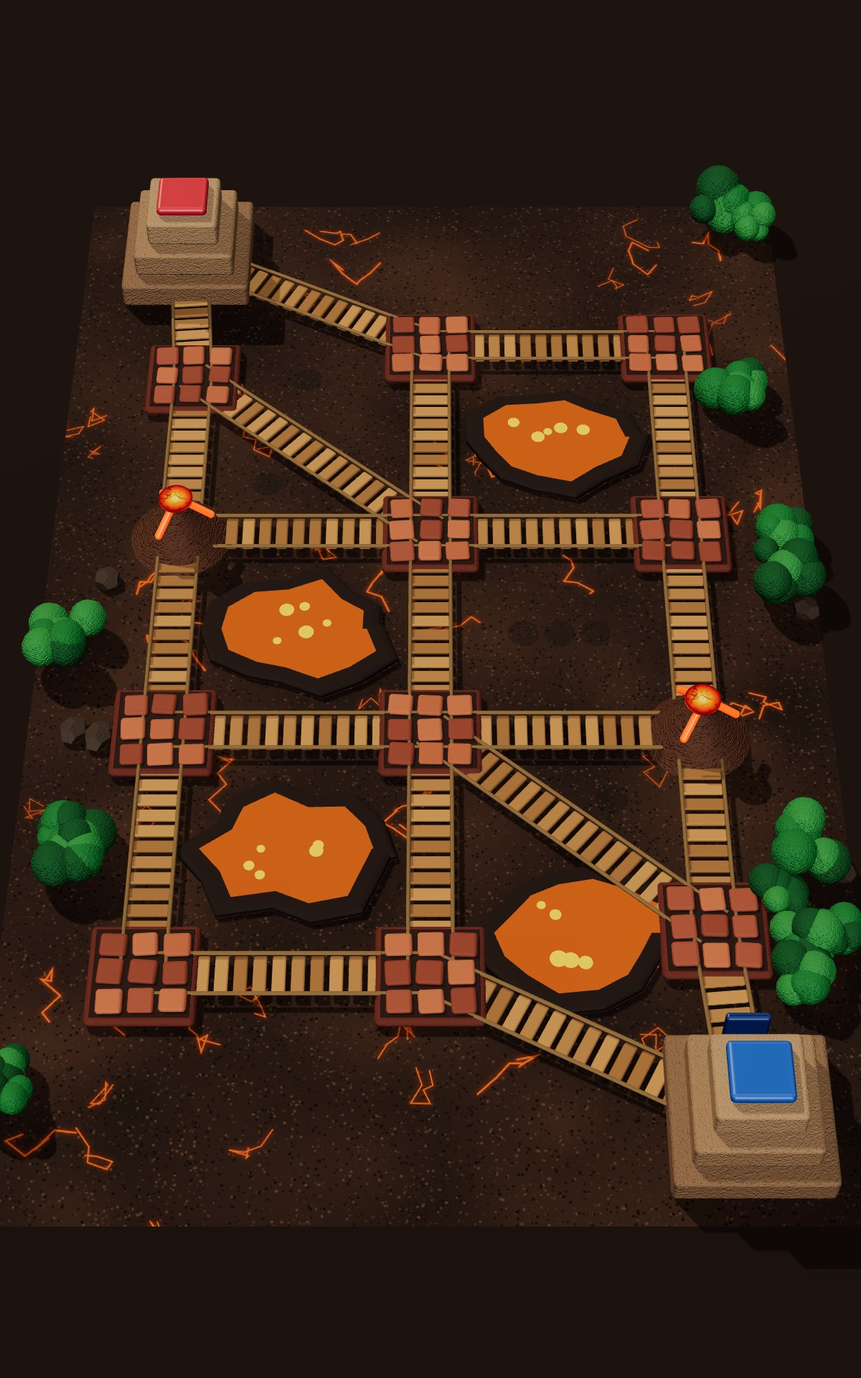
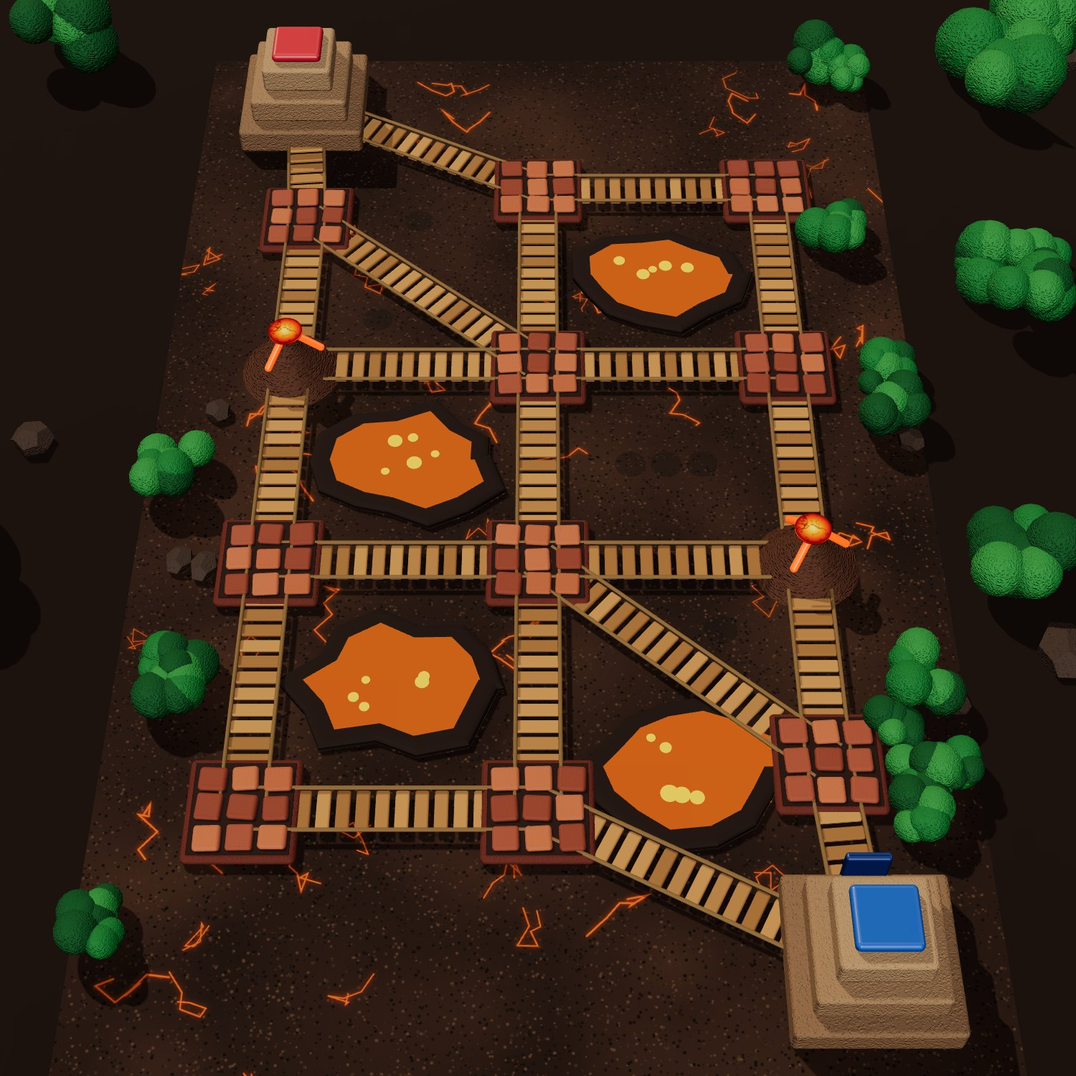
Square board renders with decorated surroundings; real screen height on iPhone (in progress)
Claude-Session: https://claude.ai/code/session_01JcXjzGuhMjiv5hGBxFbb7Y

diff --git a/js/layout.js b/js/layout.js
@@ -1,2 +1,2 @@
 // Generated by tools/render/render.cjs — screen positions of nodes on the angled board renders.
-export const LAYOUT = {"fort":{"r":{"nodes":{"HB":[500,210.51,0.91,0.62],"L0":[207.14,291.84,0.94,0.66],"R0":[792.86,291.84,0.94,0.66],"C1":[500,421.81,0.98,0.71],"L1":[158.5,487.26,1,0.74],"R1":[841.5,487.26,1,0.74],"L2":[169.23,692.21,1.07,0.84],"C2":[500,692.21,1.07,0.84],"R2":[830.77,692.21,1.07,0.84],"L3":[113.11,924.4,1.14,0.95],"R3":[886.89,924.4,1.14,0.95],"C3":[500,1012.13,1.16,1],"L4":[120.06,1211.62,1.23,1.11],"R4":[879.94,1211.62,1.23,1.11],"HR":[500,1394.82,1.27,1.2]},"medals":[[[478.35,311.71,0.94],[521.65,311.71,0.94]],[[315.91,480.01,0.99],[361.56,480.01,0.99]],[[638.44,480.01,0.99],[684.09,480.01,0.99]],[[251.01,633.81,1.04],[298.8,633.81,1.04]],[[701.2,633.81,1.04],[748.99,633.81,1.04]],[[240.51,778.63,1.08],[290.32,778.63,1.08]],[[709.68,778.63,1.08],[759.49,778.63,1.08]],[[288.85,962.48,1.14],[341.21,962.48,1.14]],[[658.79,962.48,1.14],[711.15,962.48,1.14]],[[472.09,1211.3,1.21],[527.91,1211.3,1.21]]]},"b":{"nodes":{"HB":[500,1394.82,1.27,1.2],"L0":[879.94,1211.62,1.23,1.11],"R0":[120.06,1211.62,1.23,1.11],"C1":[500,1012.13,1.16,1],"L1":[886.89,924.4,1.14,0.95],"R1":[113.11,924.4,1.14,0.95],"L2":[830.77,692.21,1.07,0.84],"C2":[500,692.21,1.07,0.84],"R2":[169.23,692.21,1.07,0.84],"L3":[841.5,487.26,1,0.74],"R3":[158.5,487.26,1,0.74],"C3":[500,421.81,0.98,0.71],"L4":[792.86,291.84,0.94,0.66],"R4":[207.14,291.84,0.94,0.66],"HR":[500,210.51,0.91,0.62]},"medals":[[[472.09,1211.3,1.21],[527.91,1211.3,1.21]],[[658.79,962.48,1.14],[711.15,962.48,1.14]],[[288.85,962.48,1.14],[341.21,962.48,1.14]],[[709.68,778.63,1.08],[759.49,778.63,1.08]],[[240.51,778.63,1.08],[290.32,778.63,1.08]],[[701.2,633.81,1.04],[748.99,633.81,1.04]],[[251.01,633.81,1.04],[298.8,633.81,1.04]],[[638.44,480.01,0.99],[684.09,480.01,0.99]],[[315.91,480.01,0.99],[361.56,480.01,0.99]],[[478.35,311.71,0.94],[521.65,311.71,0.94]]]}},"clouds":{"r":{"nodes":{"HB":[500,217.96,0.89,0.6],"L1":[191.1,349.61,0.94,0.66],"S1":[500,417.29,0.96,0.69],"R1":[808.9,349.61,0.94,0.66],"L2":[126.06,695.18,1.04,0.82],"M1":[333.8,695.18,1.04,0.82],"S2":[500,695.18,1.04,0.82],"M2":[666.2,695.18,1.04,0.82],"R2":[873.94,695.18,1.04,0.82],"L3":[115,1125.88,1.17,1.03],"S3":[500,1025.58,1.14,0.98],"R3":[885,1125.88,1.17,1.03],"HR":[500,1387.87,1.23,1.16]},"medals":[[[398.52,334.06,0.92]],[[601.48,334.06,0.92]],[[356.76,544.39,0.98],[402.04,544.39,0.98]],[[597.96,544.39,0.98],[643.24,544.39,0.98]],[[217.74,584.33,1]],[[782.26,584.33,1]],[[196.45,839.64,1.07]],[[803.55,839.64,1.07]],[[342.09,886.98,1.09],[392.02,886.98,1.09]],[[607.98,886.98,1.09],[657.91,886.98,1.09]],[[371.09,1181.53,1.17]],[[628.91,1181.53,1.17]]]},"b":{"nodes":{"HB":[500,1387.87,1.23,1.16],"L1":[885,1125.88,1.17,1.03],"S1":[500,1025.58,1.14,0.98],"R1":[115,1125.88,1.17,1.03],"L2":[873.94,695.18,1.04,0.82],"M1":[666.2,695.18,1.04,0.82],"S2":[500,695.18,1.04,0.82],"M2":[333.8,695.18,1.04,0.82],"R2":[126.06,695.18,1.04,0.82],"L3":[808.9,349.61,0.94,0.66],"S3":[500,417.29,0.96,0.69],"R3":[191.1,349.61,0.94,0.66],"HR":[500,217.96,0.89,0.6]},"medals":[[[628.91,1181.53,1.17]],[[371.09,1181.53,1.17]],[[607.98,886.98,1.09],[657.91,886.98,1.09]],[[342.09,886.98,1.09],[392.02,886.98,1.09]],[[803.55,839.64,1.07]],[[196.45,839.64,1.07]],[[782.26,584.33,1]],[[217.74,584.33,1]],[[597.96,544.39,0.98],[643.24,544.39,0.98]],[[356.76,544.39,0.98],[402.04,544.39,0.98]],[[601.48,334.06,0.92]],[[398.52,334.06,0.92]]]}},"lava":{"r":{"nodes":{"HB":[221.29,305.5,0.8,0.56],"a":[500,397.15,0.83,0.59],"b":[772.91,397.15,0.83,0.59],"c":[224.01,433.2,0.84,0.61],"d":[208.69,612.8,0.88,0.68],"e":[500,612.8,0.88,0.68],"f":[791.31,612.8,0.88,0.68],"g":[188.95,844.14,0.94,0.77],"h":[500,844.14,0.94,0.77],"i":[811.05,844.14,0.94,0.77],"j":[164.82,1126.95,1.02,0.9],"k":[500,1126.95,1.02,0.9],"l":[830.65,1073.89,1,0.87],"HR":[868.31,1304.34,1.05,0.97]},"medals":[[[358.65,441.26,0.83]],[[310.29,561.65,0.86]],[[620.66,512.44,0.85],[659.75,512.44,0.85]],[[308.66,735.21,0.91],[350.37,735.21,0.91],[392.09,735.21,0.91]],[[607.91,735.21,0.91],[649.63,735.21,0.91],[691.34,735.21,0.91]],[[710.36,927.65,0.96]],[[317.23,990.09,0.97],[361.95,990.09,0.97]],[[669.53,1087.77,1]]]},"b":{"nodes":{"HB":[868.31,1304.34,1.05,0.97],"a":[500,1126.95,1.02,0.9],"b":[164.82,1126.95,1.02,0.9],"c":[830.65,1073.89,1,0.87],"d":[811.05,844.14,0.94,0.77],"e":[500,844.14,0.94,0.77],"f":[188.95,844.14,0.94,0.77],"g":[791.31,612.8,0.88,0.68],"h":[500,612.8,0.88,0.68],"i":[208.69,612.8,0.88,0.68],"j":[772.91,397.15,0.83,0.59],"k":[500,397.15,0.83,0.59],"l":[224.01,433.2,0.84,0.61],"HR":[221.29,305.5,0.8,0.56]},"medals":[[[669.53,1087.77,1]],[[710.36,927.65,0.96]],[[317.23,990.09,0.97],[361.95,990.09,0.97]],[[607.91,735.21,0.91],[649.63,735.21,0.91],[691.34,735.21,0.91]],[[308.66,735.21,0.91],[350.37,735.21,0.91],[392.09,735.21,0.91]],[[310.29,561.65,0.86]],[[620.66,512.44,0.85],[659.75,512.44,0.85]],[[358.65,441.26,0.83]]]}},"attic":{"r":{"nodes":{"HB":[500,189.85,0.92,0.62],"a":[248.44,298.35,0.97,0.67],"b":[751.56,298.35,0.97,0.67],"c":[500,446.6,1.01,0.74],"d":[108.27,684.78,1.09,0.85],"e":[500,684.78,1.09,0.85],"f":[891.73,684.78,1.09,0.85],"g":[500,960.65,1.17,0.99],"h":[176.79,1181.27,1.24,1.11],"i":[823.21,1181.27,1.24,1.11],"HR":[500,1414.86,1.3,1.23]},"medals":[[[477.85,315.3,0.96],[522.15,315.3,0.96]],[[316.56,533.56,1.03],[363.97,533.56,1.03]],[[636.03,533.56,1.03],[683.44,533.56,1.03]],[[297.59,878.58,1.14],[349.9,878.58,1.14]],[[650.1,878.58,1.14],[702.41,878.58,1.14]],[[471.66,1186.76,1.23],[528.34,1186.76,1.23]]]},"b":{"nodes":{"HB":[500,1414.86,1.3,1.23],"a":[823.21,1181.27,1.24,1.11],"b":[176.79,1181.27,1.24,1.11],"c":[500,960.65,1.17,0.99],"d":[891.73,684.78,1.09,0.85],"e":[500,684.78,1.09,0.85],"f":[108.27,684.78,1.09,0.85],"g":[500,446.6,1.01,0.74],"h":[751.56,298.35,0.97,0.67],"i":[248.44,298.35,0.97,0.67],"HR":[500,189.85,0.92,0.62]},"medals":[[[471.66,1186.76,1.23],[528.34,1186.76,1.23]],[[650.1,878.58,1.14],[702.41,878.58,1.14]],[[297.59,878.58,1.14],[349.9,878.58,1.14]],[[636.03,533.56,1.03],[683.44,533.56,1.03]],[[316.56,533.56,1.03],[363.97,533.56,1.03]],[[477.85,315.3,0.96],[522.15,315.3,0.96]]]}},"bay":{"r":{"nodes":{"HB1":[160.87,216.07,0.92,0.62],"HB2":[839.13,216.07,0.92,0.62],"a":[156.76,393.79,0.98,0.7],"b":[500,331.66,0.96,0.68],"c":[843.24,393.79,0.98,0.7],"d":[323.15,587.92,1.04,0.79],"e":[685.52,556.53,1.03,0.78],"f":[110.41,825.22,1.11,0.91],"g":[500,843.45,1.12,0.92],"h":[887.65,807.17,1.11,0.9],"i":[259.32,1119.33,1.2,1.06],"j":[740.68,1119.33,1.2,1.06],"HR":[500,1389.67,1.27,1.2]},"medals":[[[284.46,386.06,0.97]],[[717.49,379.13,0.97]],[[503.35,501.04,1]],[[246.62,665.17,1.05],[295.09,665.17,1.05]],[[503.52,670.65,1.06]],[[802.36,590.25,1.03]],[[690.33,743.47,1.08]],[[291.74,936.46,1.14]],[[707.91,930.11,1.13]],[[472.61,1117.29,1.19],[527.39,1117.29,1.19]]]},"b":{"nodes":{"HB1":[873.16,1286.48,1.01,0.93],"HB2":[126.84,1286.48,1.01,0.93],"a":[833.18,1024.65,0.95,0.82],"b":[500,1099.73,0.97,0.85],"c":[166.82,1024.65,0.95,0.82],"d":[653.31,823.13,0.9,0.73],"e":[336.35,852.74,0.91,0.75],"f":[798.69,628.57,0.85,0.66],"g":[500,615.47,0.85,0.65],"h":[200.16,641.77,0.86,0.66],"i":[661.4,442.04,0.81,0.59],"j":[338.6,442.04,0.81,0.59],"HR":[500,323.6,0.77,0.54]},"medals":[[[711.98,1058.6,0.95]],[[285.18,1066.87,0.95]],[[496.93,930.79,0.92]],[[671.71,775.36,0.88],[712.32,775.36,0.88]],[[497.06,770.64,0.88]],[[236.16,842.82,0.9]],[[346.87,710.36,0.87]],[[652.57,570.31,0.83]],[[347.24,574.51,0.83]],[[481.49,460.05,0.8],[518.51,460.05,0.8]]]}},"trenches":{"r":{"nodes":{"HB":[500,237.14,0.88,0.6],"a":[201.15,309.88,0.91,0.63],"b":[798.85,309.88,0.91,0.63],"c":[181.04,519.3,0.97,0.72],"s1":[500,455.65,0.95,0.69],"d":[818.96,519.3,0.97,0.72],"e":[326.65,701.86,1.02,0.8],"f":[673.35,701.86,1.02,0.8],"g":[143.93,905.65,1.08,0.9],"s2":[500,988.32,1.1,0.94],"h":[856.07,905.65,1.08,0.9],"i":[115,1206.83,1.17,1.05],"j":[885,1206.83,1.17,1.05],"HR":[500,1369.46,1.2,1.13]},"medals":[[[479.2,335.23,0.9],[520.8,335.23,0.9]],[[294.48,438.36,0.93]],[[705.52,438.36,0.93]],[[338.07,567.99,0.97]],[[500,627.87,0.99]],[[661.93,567.99,0.97]],[[219.57,713.76,1.01]],[[780.43,713.76,1.01]],[[500,804.06,1.04]],[[323.43,872.71,1.06]],[[676.57,872.71,1.06]],[[256.29,1040.33,1.11]],[[743.71,1040.33,1.11]],[[473.49,1196.19,1.15],[526.51,1196.19,1.15]]]},"b":{"nodes":{"HB":[500,1369.46,1.2,1.13],"a":[885,1206.83,1.17,1.05],"b":[115,1206.83,1.17,1.05],"c":[856.07,905.65,1.08,0.9],"s1":[500,988.32,1.1,0.94],"d":[143.93,905.65,1.08,0.9],"e":[673.35,701.86,1.02,0.8],"f":[326.65,701.86,1.02,0.8],"g":[818.96,519.3,0.97,0.72],"s2":[500,455.65,0.95,0.69],"h":[181.04,519.3,0.97,0.72],"i":[798.85,309.88,0.91,0.63],"j":[201.15,309.88,0.91,0.63],"HR":[500,237.14,0.88,0.6]},"medals":[[[473.49,1196.19,1.15],[526.51,1196.19,1.15]],[[743.71,1040.33,1.11]],[[256.29,1040.33,1.11]],[[676.57,872.71,1.06]],[[500,804.06,1.04]],[[323.43,872.71,1.06]],[[780.43,713.76,1.01]],[[219.57,713.76,1.01]],[[500,627.87,0.99]],[[661.93,567.99,0.97]],[[338.07,567.99,0.97]],[[705.52,438.36,0.93]],[[294.48,438.36,0.93]],[[479.2,335.23,0.9],[520.8,335.23,0.9]]]}},"pool":{"r":{"nodes":{"HB1":[221.29,305.5,0.8,0.56],"HB2":[778.71,305.5,0.8,0.56],"a":[500,379.42,0.82,0.59],"b":[217.65,507.81,0.86,0.64],"d":[782.35,507.81,0.86,0.64],"c":[500,559.48,0.87,0.66],"e":[262.96,724.68,0.91,0.72],"m":[500,724.68,0.91,0.72],"f":[737.04,724.68,0.91,0.72],"g":[500,906.96,0.96,0.8],"h":[178.04,971.97,0.98,0.83],"i":[821.96,971.97,0.98,0.83],"j":[500,1154.02,1.02,0.91],"HR1":[131.69,1304.34,1.05,0.97],"HR2":[868.31,1304.34,1.05,0.97]},"medals":[[[339.45,442.77,0.83],[377.72,442.77,0.83]],[[622.28,442.77,0.83],[660.55,442.77,0.83]],[[349.67,637.14,0.88],[390.23,637.14,0.88]],[[609.77,637.14,0.88],[650.33,637.14,0.88]],[[340.85,839.03,0.93],[383.78,839.03,0.93]],[[616.22,839.03,0.93],[659.15,839.03,0.93]],[[307.64,1085.59,1],[353.49,1085.59,1]],[[646.51,1085.59,1],[692.36,1085.59,1]]]},"b":{"nodes":{"HB1":[868.31,1304.34,1.05,0.97],"HB2":[131.69,1304.34,1.05,0.97],"a":[500,1154.02,1.02,0.91],"b":[821.96,971.97,0.98,0.83],"d":[178.04,971.97,0.98,0.83],"c":[500,906.96,0.96,0.8],"e":[737.04,724.68,0.91,0.72],"m":[500,724.68,0.91,0.72],"f":[262.96,724.68,0.91,0.72],"g":[500,559.48,0.87,0.66],"h":[782.35,507.81,0.86,0.64],"i":[217.65,507.81,0.86,0.64],"j":[500,379.42,0.82,0.59],"HR1":[778.71,305.5,0.8,0.56],"HR2":[221.29,305.5,0.8,0.56]},"medals":[[[646.51,1085.59,1],[692.36,1085.59,1]],[[307.64,1085.59,1],[353.49,1085.59,1]],[[616.22,839.03,0.93],[659.15,839.03,0.93]],[[340.85,839.03,0.93],[383.78,839.03,0.93]],[[609.77,637.14,0.88],[650.33,637.14,0.88]],[[349.67,637.14,0.88],[390.23,637.14,0.88]],[[622.28,442.77,0.83],[660.55,442.77,0.83]],[[339.45,442.77,0.83],[377.72,442.77,0.83]]]}},"rocket":{"r":{"nodes":{"HB":[227.29,292.31,0.83,0.57],"a":[500,297.28,0.84,0.58],"b":[212.47,430.71,0.87,0.63],"d":[784.74,399.39,0.86,0.62],"c":[500,469.12,0.88,0.65],"e":[187.88,604.01,0.92,0.7],"f":[810.84,590.02,0.91,0.7],"x1":[300.64,720.21,0.95,0.75],"x2":[500,720.21,0.95,0.75],"x3":[699.36,720.21,0.95,0.75],"g":[164.35,860.78,0.99,0.81],"h":[834.17,844.61,0.98,0.81],"i":[500,1013.05,1.03,0.88],"j":[151.83,1112.5,1.06,0.93],"k":[844.1,1066.66,1.04,0.91],"l":[500,1276.81,1.1,1.01],"HR":[863.01,1316.74,1.1,1.02]},"medals":[[[340.22,378.8,0.85],[379.32,378.8,0.85]],[[594.07,398.65,0.86]],[[696.79,495.78,0.88]],[[319.33,595.75,0.91],[361.1,595.75,0.91]],[[605.09,632.87,0.92],[647.3,632.87,0.92]],[[219.53,736.19,0.95]],[[779.68,726.2,0.94]],[[344.01,835.31,0.97],[388.72,835.31,0.97]],[[650.44,877.88,0.98],[695.67,877.88,0.98]],[[272.95,1002.8,1.02]],[[384.11,1140.85,1.05]],[[650.76,1171.41,1.06],[699.6,1171.41,1.06]]]},"b":{"nodes":{"HB":[863.01,1316.74,1.1,1.02],"a":[500,1276.81,1.1,1.01],"b":[844.1,1066.66,1.04,0.91],"d":[151.83,1112.5,1.06,0.93],"c":[500,1013.05,1.03,0.88],"e":[834.17,844.61,0.98,0.81],"f":[164.35,860.78,0.99,0.81],"x1":[699.36,720.21,0.95,0.75],"x2":[500,720.21,0.95,0.75],"x3":[300.64,720.21,0.95,0.75],"g":[810.84,590.02,0.91,0.7],"h":[187.88,604.01,0.92,0.7],"i":[500,469.12,0.88,0.65],"j":[784.74,399.39,0.86,0.62],"k":[212.47,430.71,0.87,0.63],"l":[500,297.28,0.84,0.58],"HR":[227.29,292.31,0.83,0.57]},"medals":[[[650.76,1171.41,1.06],[699.6,1171.41,1.06]],[[384.11,1140.85,1.05]],[[272.95,1002.8,1.02]],[[650.44,877.88,0.98],[695.67,877.88,0.98]],[[344.01,835.31,0.97],[388.72,835.31,0.97]],[[779.68,726.2,0.94]],[[219.53,736.19,0.95]],[[605.09,632.87,0.92],[647.3,632.87,0.92]],[[319.33,595.75,0.91],[361.1,595.75,0.91]],[[696.79,495.78,0.88]],[[594.07,398.65,0.86]],[[340.22,378.8,0.85],[379.32,378.8,0.85]]]}}};
+export const LAYOUT = {"fort":{"r":{"nodes":{"HB":[800,165.93,0.97,0.65],"L0":[487.57,250.9,1.01,0.69],"R0":[1112.43,250.9,1.01,0.69],"C1":[800,388.1,1.05,0.75],"L1":[434.14,457.49,1.08,0.79],"R1":[1165.86,457.49,1.08,0.79],"L2":[444.05,676.04,1.15,0.9],"C2":[800,676.04,1.15,0.9],"R2":[1155.95,676.04,1.15,0.9],"L3":[381.55,926.01,1.23,1.03],"R3":[1218.45,926.01,1.23,1.03],"C3":[800,1021.13,1.26,1.08],"L4":[386.46,1238.77,1.33,1.21],"R4":[1213.54,1238.77,1.33,1.21],"HR":[800,1439.82,1.38,1.32]},"medals":[[[776.9,272.24,1],[823.1,272.24,1]],[[602.95,450.11,1.06],[651.81,450.11,1.06]],[[948.19,450.11,1.06],[997.05,450.11,1.06]],[[532.59,613.78,1.12],[583.92,613.78,1.12]],[[1016.08,613.78,1.12],[1067.41,613.78,1.12]],[[520.45,768.89,1.17],[574.1,768.89,1.17]],[[1025.9,768.89,1.17],[1079.55,768.89,1.17]],[[571.61,967.2,1.23],[628.25,967.2,1.23]],[[971.75,967.2,1.23],[1028.39,967.2,1.23]],[[769.65,1238.13,1.32],[830.35,1238.13,1.32]]]},"b":{"nodes":{"HB":[800,1439.82,1.38,1.32],"L0":[1213.54,1238.77,1.33,1.21],"R0":[386.46,1238.77,1.33,1.21],"C1":[800,1021.13,1.26,1.08],"L1":[1218.45,926.01,1.23,1.03],"R1":[381.55,926.01,1.23,1.03],"L2":[1155.95,676.04,1.15,0.9],"C2":[800,676.04,1.15,0.9],"R2":[444.05,676.04,1.15,0.9],"L3":[1165.86,457.49,1.08,0.79],"R3":[434.14,457.49,1.08,0.79],"C3":[800,388.1,1.05,0.75],"L4":[1112.43,250.9,1.01,0.69],"R4":[487.57,250.9,1.01,0.69],"HR":[800,165.93,0.97,0.65]},"medals":[[[769.65,1238.13,1.32],[830.35,1238.13,1.32]],[[971.75,967.2,1.23],[1028.39,967.2,1.23]],[[571.61,967.2,1.23],[628.25,967.2,1.23]],[[1025.9,768.89,1.17],[1079.55,768.89,1.17]],[[520.45,768.89,1.17],[574.1,768.89,1.17]],[[1016.08,613.78,1.12],[1067.41,613.78,1.12]],[[532.59,613.78,1.12],[583.92,613.78,1.12]],[[948.19,450.11,1.06],[997.05,450.11,1.06]],[[602.95,450.11,1.06],[651.81,450.11,1.06]],[[776.9,272.24,1],[823.1,272.24,1]]]}},"clouds":{"r":{"nodes":{"HB":[800,164.62,0.96,0.64],"L1":[465.73,303.96,1.01,0.71],"S1":[800,376.27,1.04,0.74],"R1":[1134.27,303.96,1.01,0.71],"L2":[391.67,675.85,1.13,0.89],"M1":[618.52,675.85,1.13,0.89],"S2":[800,675.85,1.13,0.89],"M2":[981.48,675.85,1.13,0.89],"R2":[1208.33,675.85,1.13,0.89],"L3":[374.78,1148.91,1.29,1.14],"S3":[800,1037.78,1.25,1.08],"R3":[1225.22,1148.91,1.29,1.14],"HR":[800,1441.41,1.37,1.31]},"medals":[[[690.31,287.86,1]],[[909.69,287.86,1]],[[644.33,513.08,1.07],[693.55,513.08,1.07]],[[906.45,513.08,1.07],[955.67,513.08,1.07]],[[492.94,556.11,1.08]],[[1107.06,556.11,1.08]],[[467.58,833.38,1.17]],[[1132.42,833.38,1.17]],[[626.86,885.2,1.19],[681.6,885.2,1.19]],[[918.4,885.2,1.19],[973.14,885.2,1.19]],[[657.55,1210.51,1.29]],[[942.45,1210.51,1.29]]]},"b":{"nodes":{"HB":[800,1441.41,1.37,1.31],"L1":[1225.22,1148.91,1.29,1.14],"S1":[800,1037.78,1.25,1.08],"R1":[374.78,1148.91,1.29,1.14],"L2":[1208.33,675.85,1.13,0.89],"M1":[981.48,675.85,1.13,0.89],"S2":[800,675.85,1.13,0.89],"M2":[618.52,675.85,1.13,0.89],"R2":[391.67,675.85,1.13,0.89],"L3":[1134.27,303.96,1.01,0.71],"S3":[800,376.27,1.04,0.74],"R3":[465.73,303.96,1.01,0.71],"HR":[800,164.62,0.96,0.64]},"medals":[[[942.45,1210.51,1.29]],[[657.55,1210.51,1.29]],[[918.4,885.2,1.19],[973.14,885.2,1.19]],[[626.86,885.2,1.19],[681.6,885.2,1.19]],[[1132.42,833.38,1.17]],[[467.58,833.38,1.17]],[[1107.06,556.11,1.08]],[[492.94,556.11,1.08]],[[906.45,513.08,1.07],[955.67,513.08,1.07]],[[644.33,513.08,1.07],[693.55,513.08,1.07]],[[909.69,287.86,1]],[[690.31,287.86,1]]]}},"lava":{"r":{"nodes":{"HB":[456.57,167.29,0.98,0.65],"a":[800,274.61,1.03,0.71],"b":[1139.33,274.61,1.03,0.71],"c":[455.9,317.84,1.04,0.73],"d":[431.75,536.78,1.12,0.84],"e":[800,536.78,1.12,0.84],"f":[1168.25,536.78,1.12,0.84],"g":[399.64,827.91,1.21,0.99],"h":[800,827.91,1.21,0.99],"i":[1200.36,827.91,1.21,0.99],"j":[358.75,1198.55,1.34,1.2],"k":[800,1198.55,1.34,1.2],"l":[1233.43,1127.74,1.31,1.16],"HR":[1290.45,1438.21,1.4,1.34]},"medals":[[[624.02,328.71,1.04]],[[561.64,474.72,1.08]],[[951.03,414.71,1.06],[999.96,414.71,1.06]],[[556.37,689.99,1.15],[609.48,689.99,1.15],[662.6,689.99,1.15]],[[937.4,689.99,1.15],[990.52,689.99,1.15],[1043.63,689.99,1.15]],[[1071.88,935.54,1.24]],[[562.61,1016.81,1.26],[620.69,1016.81,1.26]],[[1021.9,1145.56,1.31]]]},"b":{"nodes":{"HB":[1290.45,1438.21,1.4,1.34],"a":[800,1198.55,1.34,1.2],"b":[358.75,1198.55,1.34,1.2],"c":[1233.43,1127.74,1.31,1.16],"d":[1200.36,827.91,1.21,0.99],"e":[800,827.91,1.21,0.99],"f":[399.64,827.91,1.21,0.99],"g":[1168.25,536.78,1.12,0.84],"h":[800,536.78,1.12,0.84],"i":[431.75,536.78,1.12,0.84],"j":[1139.33,274.61,1.03,0.71],"k":[800,274.61,1.03,0.71],"l":[455.9,317.84,1.04,0.73],"HR":[456.57,167.29,0.98,0.65]},"medals":[[[1021.9,1145.56,1.31]],[[1071.88,935.54,1.24]],[[562.61,1016.81,1.26],[620.69,1016.81,1.26]],[[937.4,689.99,1.15],[990.52,689.99,1.15],[1043.63,689.99,1.15]],[[556.37,689.99,1.15],[609.48,689.99,1.15],[662.6,689.99,1.15]],[[561.64,474.72,1.08]],[[951.03,414.71,1.06],[999.96,414.71,1.06]],[[624.02,328.71,1.04]]]}},"attic":{"r":{"nodes":{"HB":[800,164.62,0.96,0.64],"a":[539.01,275.95,1,0.69],"b":[1060.99,275.95,1,0.69],"c":[800,428.92,1.05,0.76],"d":[391.67,675.85,1.13,0.89],"e":[800,675.85,1.13,0.89],"f":[1208.33,675.85,1.13,0.89],"g":[800,963.64,1.23,1.04],"h":[461.06,1195.18,1.3,1.17],"i":[1138.94,1195.18,1.3,1.17],"HR":[800,1441.41,1.37,1.31]},"medals":[[[777.02,293.64,1],[822.98,293.64,1]],[[609.22,519.06,1.07],[658.52,519.06,1.07]],[[941.48,519.06,1.07],[990.78,519.06,1.07]],[[588.61,877.83,1.19],[643.24,877.83,1.19]],[[956.76,877.83,1.19],[1011.39,877.83,1.19]],[[770.29,1200.81,1.29],[829.71,1200.81,1.29]]]},"b":{"nodes":{"HB":[800,1441.41,1.37,1.31],"a":[1138.94,1195.18,1.3,1.17],"b":[461.06,1195.18,1.3,1.17],"c":[800,963.64,1.23,1.04],"d":[1208.33,675.85,1.13,0.89],"e":[800,675.85,1.13,0.89],"f":[391.67,675.85,1.13,0.89],"g":[800,428.92,1.05,0.76],"h":[1060.99,275.95,1,0.69],"i":[539.01,275.95,1,0.69],"HR":[800,164.62,0.96,0.64]},"medals":[[[770.29,1200.81,1.29],[829.71,1200.81,1.29]],[[956.76,877.83,1.19],[1011.39,877.83,1.19]],[[588.61,877.83,1.19],[643.24,877.83,1.19]],[[941.48,519.06,1.07],[990.78,519.06,1.07]],[[609.22,519.06,1.07],[658.52,519.06,1.07]],[[777.02,293.64,1],[822.98,293.64,1]]]}},"bay":{"r":{"nodes":{"HB1":[437.07,167.77,0.98,0.65],"HB2":[1162.93,167.77,0.98,0.65],"a":[430.86,355.25,1.05,0.75],"b":[800,289.35,1.03,0.72],"c":[1169.14,355.25,1.05,0.75],"d":[608.93,562.47,1.12,0.85],"e":[1000.28,528.84,1.11,0.83],"f":[376.71,818.36,1.21,0.98],"g":[800,838.14,1.22,0.99],"h":[1221,798.8,1.2,0.97],"i":[536.66,1139.57,1.32,1.17],"j":[1063.34,1139.57,1.32,1.17],"HR":[800,1438.28,1.4,1.33]},"medals":[[[568.41,347.46,1.04]],[[1033.64,340.11,1.04]],[[803.6,469.83,1.08]],[[525.97,645.66,1.14],[578.39,645.66,1.14]],[[803.8,651.56,1.14]],[[1126.43,565.24,1.11]],[[1006.22,730.03,1.17]],[[573.32,939.28,1.24]],[[1026.26,932.37,1.23]],[[770.06,1137.1,1.3],[829.94,1137.1,1.3]]]},"b":{"nodes":{"HB1":[1318.72,1438.14,1.4,1.34],"HB2":[281.28,1438.14,1.4,1.34],"a":[1253.22,1070.39,1.29,1.13],"b":[800,1174.48,1.33,1.19],"c":[346.78,1070.39,1.29,1.13],"d":[1004.66,798.16,1.2,0.97],"e":[580.93,837.52,1.22,1],"f":[1191.69,544.78,1.12,0.84],"g":[800,528.04,1.11,0.83],"h":[406.33,561.69,1.12,0.85],"i":[1008.13,310.11,1.04,0.73],"j":[591.87,310.11,1.04,0.73],"HR":[800,166.82,0.98,0.65]},"medals":[[[1088.44,1116.64,1.3]],[[507.47,1128.08,1.3]],[[795.87,942.21,1.24]],[[1027.62,735.54,1.17],[1081.45,735.54,1.17]],[[796.11,729.35,1.17]],[[448.09,824.5,1.2]],[[598.2,650.83,1.14]],[[998.54,471.66,1.08]],[[601.13,476.98,1.08]],[[776.14,333.74,1.04],[823.86,333.74,1.04]]]}},"trenches":{"r":{"nodes":{"HB":[800,165.93,0.97,0.65],"a":[468.16,244.01,1.01,0.69],"b":[1131.84,244.01,1.01,0.69],"c":[443.18,473.32,1.08,0.8],"s1":[800,403.27,1.06,0.76],"d":[1156.82,473.32,1.08,0.8],"e":[604.8,676.04,1.15,0.9],"f":[995.2,676.04,1.15,0.9],"g":[396.09,905.52,1.22,1.02],"s2":[800,999.57,1.26,1.07],"h":[1203.91,905.52,1.22,1.02],"i":[358.45,1250.92,1.34,1.22],"j":[1241.55,1250.92,1.34,1.22],"HR":[800,1439.82,1.38,1.32]},"medals":[[[776.9,272.24,1],[823.1,272.24,1]],[[570.99,384.84,1.04]],[[1029.01,384.84,1.04]],[[618.74,527.56,1.09]],[[800,593.92,1.11]],[[981.26,527.56,1.09]],[[484.46,689.61,1.14]],[[1115.54,689.61,1.14]],[[800,790.85,1.17]],[[600.19,868.25,1.2]],[[999.81,868.25,1.2]],[[522.55,1058.84,1.26]],[[1077.45,1058.84,1.26]],[[769.65,1238.13,1.32],[830.35,1238.13,1.32]]]},"b":{"nodes":{"HB":[800,1439.82,1.38,1.32],"a":[1241.55,1250.92,1.34,1.22],"b":[358.45,1250.92,1.34,1.22],"c":[1203.91,905.52,1.22,1.02],"s1":[800,999.57,1.26,1.07],"d":[396.09,905.52,1.22,1.02],"e":[995.2,676.04,1.15,0.9],"f":[604.8,676.04,1.15,0.9],"g":[1156.82,473.32,1.08,0.8],"s2":[800,403.27,1.06,0.76],"h":[443.18,473.32,1.08,0.8],"i":[1131.84,244.01,1.01,0.69],"j":[468.16,244.01,1.01,0.69],"HR":[800,165.93,0.97,0.65]},"medals":[[[769.65,1238.13,1.32],[830.35,1238.13,1.32]],[[1077.45,1058.84,1.26]],[[522.55,1058.84,1.26]],[[999.81,868.25,1.2]],[[800,790.85,1.17]],[[600.19,868.25,1.2]],[[1115.54,689.61,1.14]],[[484.46,689.61,1.14]],[[800,593.92,1.11]],[[981.26,527.56,1.09]],[[618.74,527.56,1.09]],[[1029.01,384.84,1.04]],[[570.99,384.84,1.04]],[[776.9,272.24,1],[823.1,272.24,1]]]}},"pool":{"r":{"nodes":{"HB1":[456.57,167.29,0.98,0.65],"HB2":[1143.43,167.29,0.98,0.65],"a":[800,253.44,1.02,0.7],"b":[445.95,408.05,1.07,0.77],"d":[1154.05,408.05,1.07,0.77],"c":[800,471.15,1.09,0.8],"e":[497.74,676.26,1.16,0.91],"m":[800,676.26,1.16,0.91],"f":[1102.26,676.26,1.16,0.91],"g":[800,908.8,1.24,1.03],"h":[381.39,993.38,1.27,1.08],"i":[1218.61,993.38,1.27,1.08],"j":[800,1234.92,1.35,1.22],"HR1":[309.55,1438.21,1.4,1.34],"HR2":[1290.45,1438.21,1.4,1.34]},"medals":[[[600.1,330.53,1.04],[647.74,330.53,1.04]],[[952.26,330.53,1.04],[999.9,330.53,1.04]],[[610.03,567.65,1.11],[661.28,567.65,1.11]],[[938.72,567.65,1.11],[989.97,567.65,1.11]],[[595.72,821.55,1.2],[650.83,821.55,1.2]],[[949.17,821.55,1.2],[1004.28,821.55,1.2]],[[548.26,1142.67,1.3],[608.26,1142.67,1.3]],[[991.74,1142.67,1.3],[1051.74,1142.67,1.3]]]},"b":{"nodes":{"HB1":[1290.45,1438.21,1.4,1.34],"HB2":[309.55,1438.21,1.4,1.34],"a":[800,1234.92,1.35,1.22],"b":[1218.61,993.38,1.27,1.08],"d":[381.39,993.38,1.27,1.08],"c":[800,908.8,1.24,1.03],"e":[1102.26,676.26,1.16,0.91],"m":[800,676.26,1.16,0.91],"f":[497.74,676.26,1.16,0.91],"g":[800,471.15,1.09,0.8],"h":[1154.05,408.05,1.07,0.77],"i":[445.95,408.05,1.07,0.77],"j":[800,253.44,1.02,0.7],"HR1":[1143.43,167.29,0.98,0.65],"HR2":[456.57,167.29,0.98,0.65]},"medals":[[[991.74,1142.67,1.3],[1051.74,1142.67,1.3]],[[548.26,1142.67,1.3],[608.26,1142.67,1.3]],[[949.17,821.55,1.2],[1004.28,821.55,1.2]],[[595.72,821.55,1.2],[650.83,821.55,1.2]],[[938.72,567.65,1.11],[989.97,567.65,1.11]],[[610.03,567.65,1.11],[661.28,567.65,1.11]],[[952.26,330.53,1.04],[999.9,330.53,1.04]],[[600.1,330.53,1.04],[647.74,330.53,1.04]]]}},"rocket":{"r":{"nodes":{"HB":[472.03,168.7,0.99,0.66],"a":[800,173.09,1.01,0.67],"b":[450.36,328.84,1.06,0.75],"d":[1145.52,292.03,1.05,0.73],"c":[800,374.19,1.07,0.77],"e":[416.01,535.32,1.13,0.85],"f":[1182.05,518.48,1.12,0.84],"x1":[552.79,676.5,1.18,0.92],"x2":[800,676.5,1.18,0.92],"x3":[1047.21,676.5,1.18,0.92],"g":[379.76,850.32,1.24,1.01],"h":[1217.92,830.15,1.23,1],"i":[800,1042.42,1.3,1.12],"j":[356.4,1170.1,1.34,1.2],"k":[1237,1111.03,1.32,1.16],"l":[800,1385.01,1.42,1.33],"HR":[1267.97,1436.56,1.42,1.35]},"medals":[[[606.73,269.07,1.03],[654.02,269.07,1.03]],[[913.94,292.29,1.04]],[[1039.89,406.75,1.07]],[[578.3,526.11,1.11],[629.55,526.11,1.11]],[[929.28,570.84,1.13],[981.21,570.84,1.13]],[[452.56,696.53,1.17]],[[1146.22,684.3,1.17]],[[605.46,818.75,1.21],[661.22,818.75,1.21]],[[988.16,871.76,1.23],[1044.73,871.76,1.23]],[[513.58,1029.08,1.28]],[[652.41,1206.11,1.34]],[[992.41,1245.75,1.36],[1054.74,1245.75,1.36]]]},"b":{"nodes":{"HB":[1267.97,1436.56,1.42,1.35],"a":[800,1385.01,1.42,1.33],"b":[1237,1111.03,1.32,1.16],"d":[356.4,1170.1,1.34,1.2],"c":[800,1042.42,1.3,1.12],"e":[1217.92,830.15,1.23,1],"f":[379.76,850.32,1.24,1.01],"x1":[1047.21,676.5,1.18,0.92],"x2":[800,676.5,1.18,0.92],"x3":[552.79,676.5,1.18,0.92],"g":[1182.05,518.48,1.12,0.84],"h":[416.01,535.32,1.13,0.85],"i":[800,374.19,1.07,0.77],"j":[1145.52,292.03,1.05,0.73],"k":[450.36,328.84,1.06,0.75],"l":[800,173.09,1.01,0.67],"HR":[472.03,168.7,0.99,0.66]},"medals":[[[992.41,1245.75,1.36],[1054.74,1245.75,1.36]],[[652.41,1206.11,1.34]],[[513.58,1029.08,1.28]],[[988.16,871.76,1.23],[1044.73,871.76,1.23]],[[605.46,818.75,1.21],[661.22,818.75,1.21]],[[1146.22,684.3,1.17]],[[452.56,696.53,1.17]],[[929.28,570.84,1.13],[981.21,570.84,1.13]],[[578.3,526.11,1.11],[629.55,526.11,1.11]],[[1039.89,406.75,1.07]],[[913.94,292.29,1.04]],[[606.73,269.07,1.03],[654.02,269.07,1.03]]]}}};

diff --git a/tools/render/boards.js b/tools/render/boards.js
@@ -6,6 +6,8 @@ import { MAP_LIST, MAPS } from '../../js/maps.js';
 
 export const MAP_IDS = MAP_LIST.map((m) => m.id);
 const BW = 1000, BH = 1600, BASE = 128;
+// Rendered image space: square, so wide phone screens still show real terrain at the sides.
+export const IW = 1600, IH = 1600;
 
 // ------------------------------------------------------------ texture painters
 function speckle(g, w, h, r, n, cols, smin = 1, smax = 3) {
@@ -337,6 +339,27 @@ const PROPS = {
 };
 const beachTex = canvasTex(256, 128, (g, w, h) => { ['#e5484d', '#ffffff', '#3b7dd8', '#ffffff', '#ffd34d', '#ffffff'].forEach((c, i) => { g.fillStyle = c; g.fillRect(i * w / 6, 0, w / 6 + 1, h); }); });
 
+// Decorations on the "table" around the board, seen at the sides on wide screens.
+function surroundProps(theme, r) {
+  const out = [];
+  const place = (o) => { o.position.x += (r() < 0.5 ? -1 : 1) * (560 + r() * 520); o.position.z += (r() - 0.5) * 2200; out.push(o); return o; };
+  const greens = { fort: ['#2f6f2a', '#3e8a35', '#4f9e3f', '#367d2e'], lava: ['#1f5a2a', '#2c7a36', '#3c8d40'] };
+  const n = 46;
+  for (let i = 0; i < n; i++) {
+    switch (theme) {
+      case 'fort': place(r() < 0.75 ? bush(r, 1 + r() * 1.2, greens.fort) : rock(r, 1.2 + r())); break;
+      case 'lava': place(r() < 0.6 ? bush(r, 1 + r(), greens.lava) : rock(r, 1.4 + r(), '#4a3a30')); break;
+      case 'clouds': place(group(...[...Array(6)].map(() => mesh(G.sphere(26 + r() * 22), plastic('#ffffff', { rough: 0.8, clearcoat: 0 }), (r() - 0.5) * 90, 10 + r() * 24, (r() - 0.5) * 60)))); break;
+      case 'attic': place(r() < 0.5 ? mesh(G.box(40, 40, 40, 6), plastic(['#e5484d', '#3b7dd8', '#ffd34d', '#69db7c'][Math.floor(r() * 4)], { rough: 0.5 }), 0, 20, 0, { ry: r() * 2 }) : mesh(G.sphere(10), plastic(['#e5484d', '#3b7dd8', '#ffd34d', '#69db7c'][Math.floor(r() * 4)], { rough: 0.05, clearcoat: 1, opacity: 0.85 }), 0, 10, 0)); break;
+      case 'bay': place(mesh(G.sphere(8 + r() * 16), plastic('#ffffff', { opacity: 0.45, rough: 0.05, clearcoat: 1 }), 0, 8, 0, { cast: false })); break;
+      case 'trenches': place(r() < 0.4 ? mesh(G.star(26, 11, 6, 3), plastic('#f08a5d', { rough: 0.6, clearcoat: 0 }), 0, 2, 0, { rx: -Math.PI / 2, rz: r() * 6 }) : r() < 0.6 ? mesh(G.hemi(16), plastic('#f3a5c0', { rough: 0.4 }), 0, 0, 0, { s: [1, 0.5, 1.2] }) : rock(r, 0.7, '#b5a184')); break;
+      case 'pool': if (i < 10) place(mesh(G.box(70, 6, 120, 4), plastic(['#e5484d', '#3b7dd8', '#ffd34d'][i % 3], { rough: 0.6, clearcoat: 0 }), 0, 3, 0, { ry: r() })); break;
+      case 'rocket': if (i < 20) place(mesh(G.box(60, 44, 60, 5), metal('#59607e', 0.5), 0, 22, 0, { ry: r() * 0.6 })); break;
+    }
+  }
+  return out;
+}
+
 // ------------------------------------------------------------ assemble + render
 export function buildBoard(mapId, flip) {
   const m = MAPS[mapId];
@@ -371,6 +394,7 @@ export function buildBoard(mapId, flip) {
     scene.add(obj);
   }
   for (const o of PROPS[m.theme](r, m, P) || []) scene.add(o);
+  for (const o of surroundProps(m.theme, r)) scene.add(o);
   scene.traverse((o) => {
     if (!o.isMesh || o === ground) return;
     const mt = o.material;
@@ -416,8 +440,8 @@ function fitCamera(m, flip, aspect) {
 // Screen positions (in the 1000 x 1600 board image space) of every node and medal slot.
 export function boardLayout(mapId, flip) {
   const m = MAPS[mapId];
-  const { cam, P } = fitCamera(m, flip, BW / BH);
-  const px = (v) => { const q = v.clone().project(cam); return [(q.x + 1) / 2 * BW, (1 - q.y) / 2 * BH]; };
+  const { cam, P } = fitCamera(m, flip, IW / IH);
+  const px = (v) => { const q = v.clone().project(cam); return [(q.x + 1) / 2 * IW, (1 - q.y) / 2 * IH]; };
   const r3 = (n) => Math.round(n * 100) / 100;
   const nodes = {};
   for (const id in m.nodes) {
@@ -439,13 +463,13 @@ export function boardLayout(mapId, flip) {
 }
 
 export function renderBoardImage(mapId, flip, width = 1200, quality = 0.86) {
-  const h = Math.round(width * 1.6);
+  const h = Math.round(width * IH / IW);
   renderer.setPixelRatio(1);
   renderer.setSize(width, h);
   renderer.setClearColor(0x000000, 1);
   renderer.toneMappingExposure = 0.82;
   const scene = buildBoard(mapId, flip);
-  const { cam } = fitCamera(MAPS[mapId], flip, BW / BH);
+  const { cam } = fitCamera(MAPS[mapId], flip, IW / IH);
   scene.fog = null;
   renderer.render(scene, cam);
   renderer.toneMappingExposure = 1.05;

diff --git a/js/game.js b/js/game.js
@@ -1,7 +1,7 @@
 // The in-game screen: board, HUD, hand (drag or tap to deploy), effect prompts.
 import * as E from './engine.js';
 import { MAPS, SPECIALS } from './maps.js';
-import { renderStatic, renderDynamic, contentBox } from './board.js';
+import { renderStatic, renderDynamic, contentBox, W as IMG_W, H as IMG_H } from './board.js';
 import { TROOPS, TEAM, cardHTML, cardBackHTML, troopArt } from './troops.js';
 import { sfx } from './sfx.js';
 
@@ -201,7 +201,11 @@ export class GameView {
     const ca = cw / ch;
     if (w / h > ca) h = w / ca; else w = h * ca;
     const cx = (b.x0 + b.x1) / 2, cy = (b.y0 + b.y1) / 2;
-    const vb = `${(cx - w / 2).toFixed(1)} ${(cy - h / 2).toFixed(1)} ${w.toFixed(1)} ${h.toFixed(1)}`;
+    let x = cx - w / 2, y = cy - h / 2;
+    // keep the view inside the rendered image when it fits, so its edges never show
+    if (w <= IMG_W) x = Math.min(Math.max(x, 0), IMG_W - w);
+    if (h <= IMG_H) y = Math.min(Math.max(y, 0), IMG_H - h);
+    const vb = `${x.toFixed(1)} ${y.toFixed(1)} ${w.toFixed(1)} ${h.toFixed(1)}`;
     holder.querySelectorAll('svg.board').forEach((el) => el.setAttribute('viewBox', vb));
   }
 

diff --git a/js/board.js b/js/board.js
@@ -6,7 +6,8 @@ import { topOf, ownerOf, typeOf } from './engine.js';
 import { C, P } from './paint.js';
 import { LAYOUT } from './layout.js';
 
-export const W = 1000, H = 1600;
+// Image space of the rendered boards (square; see tools/render).
+export const W = 1600, H = 1600;
 const BASE = 128, HQ = 176;
 
 export const SPECIAL_ICON = {
@@ -64,7 +65,7 @@ const lay = (m, flip) => LAYOUT[m.id][flip ? 'b' : 'r'];
 export function renderStatic(m, { flip = false, lite = false } = {}) {
   const L = lay(m, flip);
   const src = lite ? `assets/boards/${m.id}-thumb.jpg` : `assets/boards/${m.id}-${flip ? 'b' : 'r'}.jpg`;
-  let out = `<svg class="board board-static theme-${m.theme}" viewBox="0 0 ${W} ${H}" xmlns="http://www.w3.org/2000/svg"><defs>${BOARD_DEFS}</defs>`;
+  let out = `<svg class="board board-static theme-${m.theme}" viewBox="0 0 ${W} ${H}" ${lite ? 'preserveAspectRatio="xMidYMid slice"' : ''} xmlns="http://www.w3.org/2000/svg"><defs>${BOARD_DEFS}</defs>`;
   out += `<image href="${src}" x="0" y="0" width="${W}" height="${H}" preserveAspectRatio="none"/>`;
   if (!lite) {
     for (const id in m.nodes) {

diff --git a/js/app.js b/js/app.js
@@ -8,6 +8,20 @@ import * as Net from './net.js';
 import { sfx, isMuted, setMuted } from './sfx.js';
 
 const app = document.getElementById('app');
+
+// iOS home-screen apps report a short CSS viewport (100vh / 100dvh); use the real window height.
+const setAppHeight = () => {
+  let h = window.innerHeight;
+  // Installed on iPhone: the app is full screen, but the reported height leaves out the status bar.
+  if (navigator.standalone) {
+    const portrait = window.matchMedia('(orientation: portrait)').matches;
+    h = Math.max(h, portrait ? screen.height : screen.width);
+  }
+  document.documentElement.style.setProperty('--app-h', `${h}px`);
+};
+setAppHeight();
+window.addEventListener('resize', setAppHeight);
+window.addEventListener('orientationchange', () => setTimeout(setAppHeight, 300));
 const esc = (t) => String(t ?? '').replace(/[&<>"]/g, (c) => ({ '&': '&amp;', '<': '&lt;', '>': '&gt;', '"': '&quot;' }[c]));
 let view = null; // active GameView
 let unsub = []; // firestore listeners

diff --git a/css/style.css b/css/style.css
@@ -422,3 +422,7 @@ body { background: #141a33; }
   .game .prompt .bar .btn { font-size: 14px; padding: 4px 10px; }
   .game .hud-top .plate-avatar { width: 32px; height: 32px; }
 }
+
+/* real window height (set from JS) — fixes the short viewport of iOS home-screen apps */
+html { background: #141a33; }
+html, body, #app, .screen, .game { height: var(--app-h, 100dvh); }
